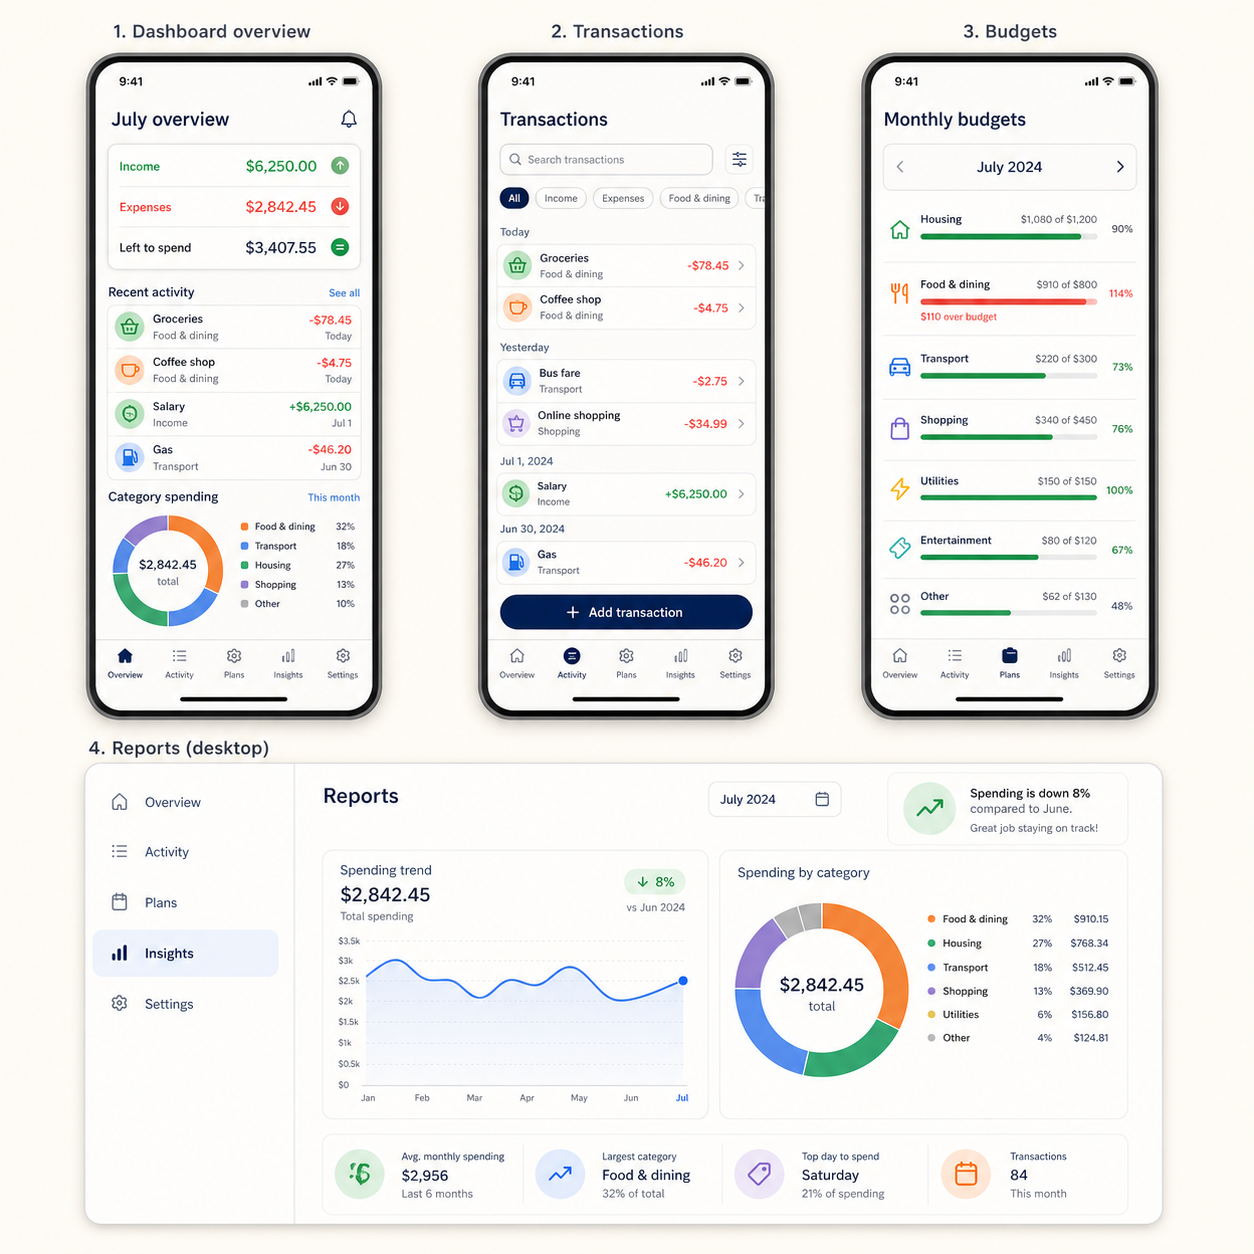
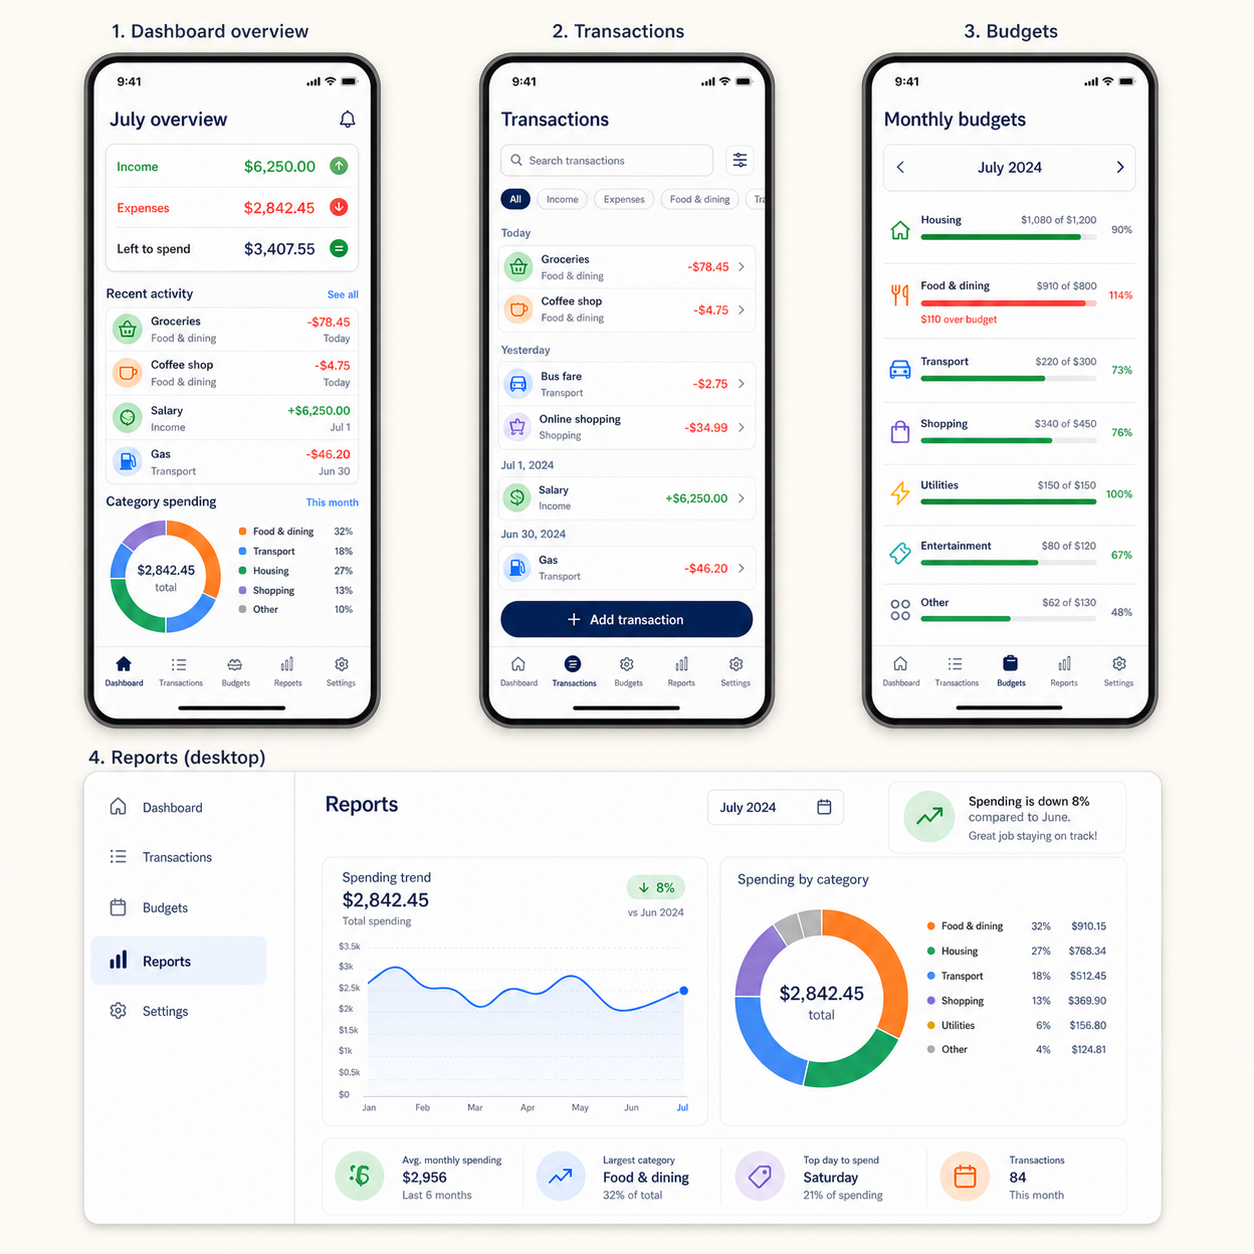
docs: align concepts with unified product system

diff --git a/docs/product/concepts/system-review.md b/docs/product/concepts/system-review.md
@@ -40,16 +40,16 @@ Check that the individual concepts behave like one product before implementation
 - Settings exposes preference, local-data, exchange-rate, and optional sync controls.
 - Empty, loading, offline, validation, and conflict states have clear next actions.
 
-### Corrections required before implementation
+### Corrections applied
 
-- Normalize navigation labels and icons to the five-item primary IA.
-- Replace generated placeholder branding and domains with the working product name.
-- Remove the Accounts item from the CSV concept and any future concepts.
-- Represent Categories as a Settings sub-area in browser navigation while retaining category pickers in transaction/budget flows.
-- Keep the final sync concept without “Continue locally” actions or a full-width “Merge and sync” footer; conflict choices remain explicit.
-- Keep the Settings concept without demo-data reset; first launch and empty states remain empty.
-- Apply one date, currency, amount, and category-copy convention across concepts.
+- Navigation labels and icons now follow the five-item primary IA in the linked artwork.
+- Placeholder branding and domains were replaced with Unfancy Money Tracker treatment.
+- The Accounts item was removed from the CSV concept.
+- Categories are represented as a Settings sub-area while category pickers remain available in transaction/budget flows.
+- Sync artwork keeps conflict choices explicit without “Continue locally” actions or a full-width “Merge and sync” footer.
+- Settings artwork has no demo-data reset; empty-first behavior remains the product rule.
+- Date, currency, amount, and category conventions were normalized across the linked artwork.
 
 ## Review outcome
 
-The visual direction is coherent enough to begin implementation after the corrections above are reflected in the UI shell and shared components. The individual concepts remain useful as reference artifacts, but generated images are not implementation specifications.
+The visual direction is coherent enough to begin implementation of the shared UI shell. The individual concepts remain reference artifacts, while the system decisions in this document and the product definition are the implementation source of truth.
